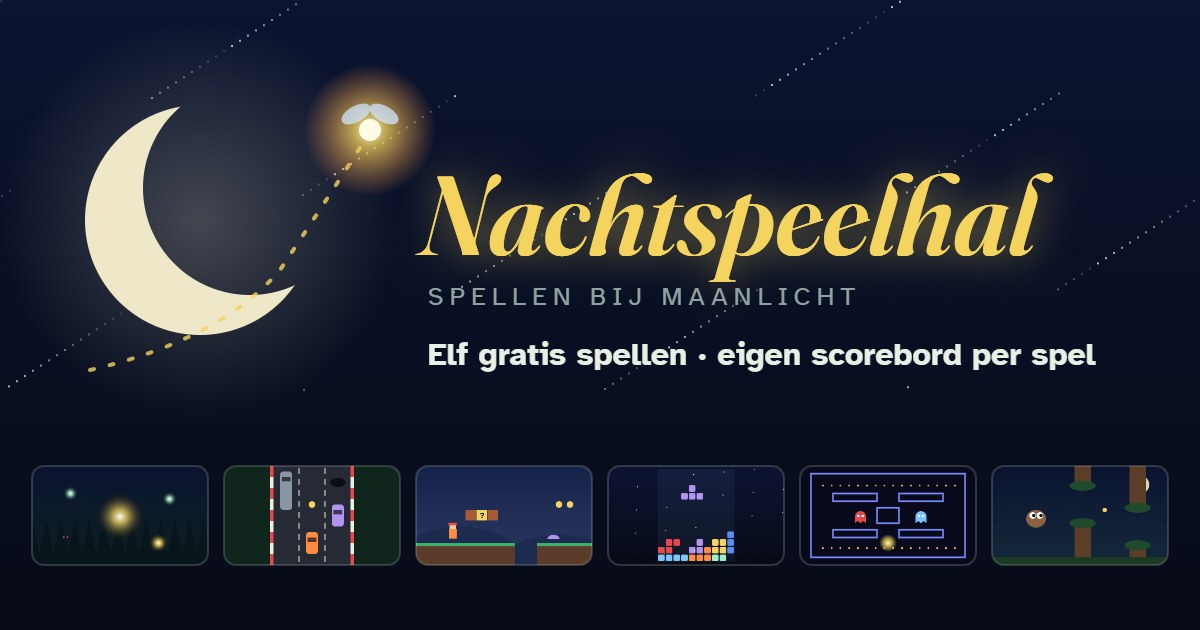
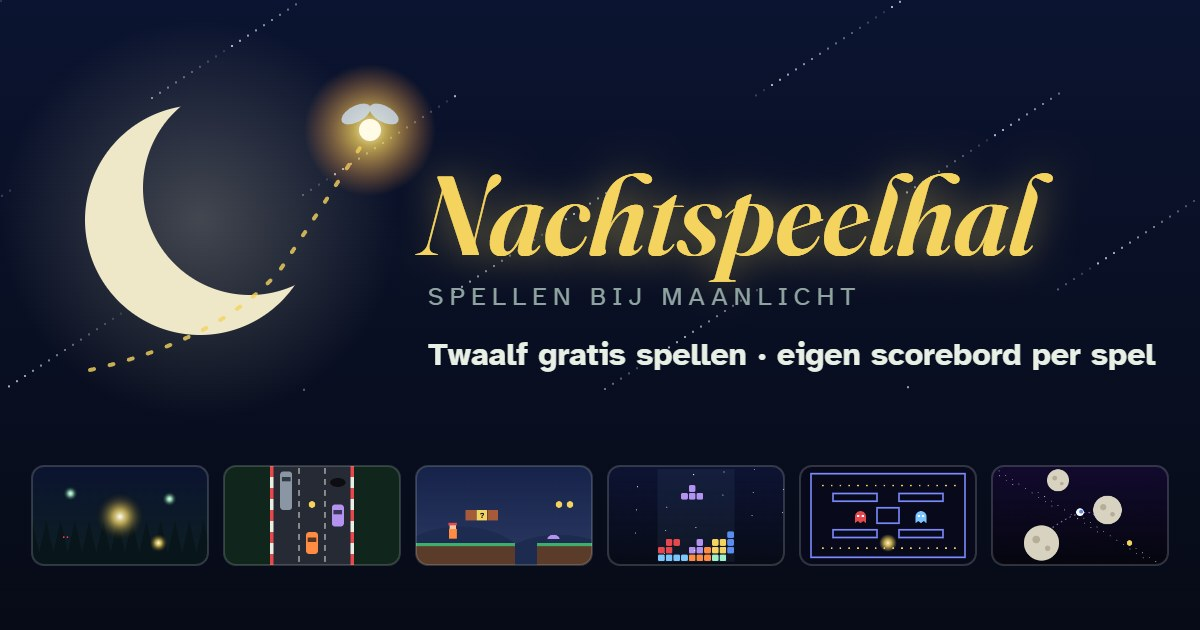
Twaalfde spel: Maansprong
Spring van maan naar maan; de zwaartekracht van de manen buigt de sprong af. Levels met sneller draaiende en kleinere manen, meteorieten, bewegende manen en zwarte gaten. Teksten, deelafbeelding, verkooppagina en statistieken bijgewerkt naar twaalf spellen.

Changed region(s): [[0.3392, 0.5429, 0.9867, 0.6032], [0.8017, 0.7238, 0.9867, 0.9048]]

diff --git a/games/maansprong.js b/games/maansprong.js
@@ -1,0 +1,213 @@
+GAMES.push({
+  id: 'maansprong',
+  name: 'Maansprong',
+  color: '#c9b8ff',
+  music: { bpm: 80, root: 59, scale: 'minor', prog: [0, 5, 3, 6], pad: 'sine', lead: 'sine', every: 2, pat: [0, 2, 4, 2, 1, 2], cut: 2200 },
+  blurb: 'Spring van maan naar maan door de ruimte. De zwaartekracht van de manen buigt je sprong af.',
+  how: [
+    'Tik, klik of druk op spatie om te springen: je vliegt recht van de maan af',
+    'Andere manen trekken je met hun zwaartekracht naar zich toe. Mis je, dan zweef je weg',
+    'Pak sterren onderweg voor extra punten',
+    'Elke 8 manen een level: sneller draaiende en kleinere manen, vanaf level 4 meteorieten, level 6 bewegende manen, level 8 zwarte gaten'
+  ],
+  touch: null,
+
+  thumb(c, w, h) {
+    const g = c.createLinearGradient(0, 0, 0, h);
+    g.addColorStop(0, '#120a2e'); g.addColorStop(1, '#05060f');
+    c.fillStyle = g; c.fillRect(0, 0, w, h);
+    c.fillStyle = 'rgba(230,240,255,.7)'; for (let i = 0; i < 40; i++) c.fillRect((i * 83) % w, (i * 47) % h, 1.5, 1.5);
+    const moon = (x, y, r) => { c.fillStyle = '#d8d2c0'; c.beginPath(); c.arc(x, y, r, 0, 7); c.fill(); c.fillStyle = '#b5ad98'; c.beginPath(); c.arc(x - r * .3, y - r * .2, r * .22, 0, 7); c.arc(x + r * .35, y + r * .3, r * .16, 0, 7); c.fill(); };
+    moon(90, 140, 32); moon(210, 80, 26); moon(120, 26, 20);
+    c.strokeStyle = 'rgba(201,184,255,.6)'; c.setLineDash([3, 6]); c.lineWidth = 2; c.beginPath(); c.moveTo(110, 112); c.quadraticCurveTo(170, 70, 190, 92); c.stroke(); c.setLineDash([]);
+    c.fillStyle = '#ffffff'; c.beginPath(); c.arc(160, 84, 7, 0, 7); c.fill();
+    c.fillStyle = '#5b8def'; c.beginPath(); c.arc(162, 83, 3.5, 0, 7); c.fill();
+    c.fillStyle = '#f4d35e'; c.beginPath(); c.arc(250, 140, 5, 0, 7); c.fill();
+  },
+
+  create(A) {
+    const ctx = A.ctx, rand = A.rand, PR = 9, JUMP = 470, K = 1400;
+    const NEWS = { 2: 'De manen draaien sneller', 3: 'Kleinere manen', 4: 'Pas op voor meteorieten', 6: 'Bewegende manen', 8: 'Zwarte gaten trekken je naar binnen' };
+    let W = 0, H = 0, PW = 0, ox = 0;
+    let moons = [], stars = [], rocks = [], holes = [], parts = [], bg = [];
+    let camY = 0, camTarget = 0, level = 1, reached = 0, score = 0, starsGot = 0, t = 0, rockT = 3;
+    let dead = false, deadT = 0, ended = false, nextIdx = 0;
+    const p = { x: 0, y: 0, vx: 0, vy: 0, on: null, ang: -Math.PI / 2, left: null, trail: [] };
+
+    const lvAt = n => 1 + Math.floor(n / 8);
+    function layout() {
+      W = A.W; H = A.H; PW = Math.min(W, 560); ox = (W - PW) / 2;
+      bg = Array.from({ length: 120 }, (_, i) => ({ x: (i * 197) % Math.max(1, W), y: (i * 131) % Math.max(1, H), s: .2 + (i % 5) * .15, b: .3 + (i % 7) / 10 }));
+      for (const m of moons) { m.x = Math.min(Math.max(m.x, m.r + 16), PW - m.r - 16); m.baseX = m.x; }
+    }
+    function addMoon() {
+      const prev = moons[moons.length - 1];
+      const idx = nextIdx++, lv = lvAt(idx);
+      const r = Math.max(20, rand(30, 46) - (lv >= 3 ? Math.min(14, (lv - 2) * 3) : 0));
+      const y = prev ? prev.y - rand(160, 230) - Math.min(40, lv * 4) : 0;
+      let x = prev ? rand(r + 20, PW - r - 20) : PW / 2;
+      if (prev && Math.abs(x - prev.x) < 50) x = Math.min(PW - r - 20, Math.max(r + 20, x + (x < PW / 2 ? 90 : -90)));
+      const w = prev ? (rand(.7, 1.3) + (lv - 1) * .15) * (Math.random() < .5 ? -1 : 1) : .8;
+      const m = { idx, x, baseX: x, y, r, w, a: rand(0, 6), moving: lv >= 6 && prev && Math.random() < .4, amp: rand(30, 70), ph: rand(0, 6), craters: [[.3, -.2, .22], [-.35, .3, .16], [.1, .45, .12], [-.2, -.45, .1]] };
+      moons.push(m);
+      if (prev && Math.random() < .55) stars.push({ x: (x + prev.x) / 2 + rand(-40, 40), y: (y + prev.y) / 2 + rand(-20, 20), got: false, ph: rand(0, 6) });
+      if (prev && lv >= 8 && Math.random() < .18) holes.push({ x: rand(30, PW - 30), y: (y + prev.y) / 2, r: 14 });
+    }
+    layout();
+    for (let i = 0; i < 8; i++) addMoon();
+    p.on = moons[0];
+    camY = camTarget = moons[0].y - H * .68;
+
+    function burst(x, y, color, n = 14) {
+      if (A.reduce) n = 5;
+      for (let i = 0; i < n; i++) { const a = rand(0, 7), s = rand(40, 200); parts.push({ x, y, vx: Math.cos(a) * s, vy: Math.sin(a) * s, life: rand(.3, .8), age: 0, color }); }
+    }
+    function die() {
+      if (dead) return;
+      dead = true; deadT = 0;
+      A.vibrate(200); A.sound(180, .7, 'sawtooth', .07, -120);
+      burst(p.x, p.y, '#c9b8ff', 20);
+    }
+    function moonX(m) { return m.moving ? m.baseX + Math.sin(t * .8 + m.ph) * m.amp : m.baseX; }
+
+    function update(dt) {
+      t += dt;
+      for (let i = parts.length - 1; i >= 0; i--) { const q = parts[i]; q.age += dt; if (q.age > q.life) { parts.splice(i, 1); continue; } q.x += q.vx * dt; q.y += q.vy * dt; }
+      for (const m of moons) { m.a += m.w * dt; m.x = Math.min(Math.max(moonX(m), m.r + 10), PW - m.r - 10); }
+      camY += (camTarget - camY) * Math.min(1, dt * 4);
+      if (dead) { deadT += dt; if (deadT > 1.1 && !ended) { ended = true; A.score(score); A.end(); } return; }
+
+      if (p.on) {
+        const m = p.on;
+        p.ang += m.w * dt;
+        p.x = m.x + Math.cos(p.ang) * (m.r + PR); p.y = m.y + Math.sin(p.ang) * (m.r + PR);
+        if (A.hit(' ', 'tap', 'arrowup', 'w', 'enter')) {
+          const nx = Math.cos(p.ang), ny = Math.sin(p.ang), tx = -ny, ty = nx, tv = m.w * (m.r + PR) * .5;
+          p.vx = nx * JUMP + tx * tv; p.vy = ny * JUMP + ty * tv;
+          p.left = m; p.on = null; p.trail = [];
+          A.sound(500, .12, 'triangle', .06, 300);
+        }
+      } else {
+        let ax = 0, ay = 0;
+        for (const m of moons) {
+          if (m === p.left) continue;
+          const dx = m.x - p.x, dy = m.y - p.y, d2 = dx * dx + dy * dy, d = Math.sqrt(d2);
+          if (d > m.r * 6) continue;
+          const a = Math.min(1600, K * m.r * m.r / Math.max(d2, m.r * m.r));
+          ax += dx / d * a; ay += dy / d * a;
+        }
+        for (const hl of holes) {
+          const dx = hl.x - p.x, dy = hl.y - p.y, d = Math.hypot(dx, dy);
+          if (d < hl.r + PR) { die(); return; }
+          if (d < 220) { const a = Math.min(2600, 2600 * 900 / Math.max(d * d, 400)); ax += dx / d * a; ay += dy / d * a; }
+        }
+        p.vx += ax * dt; p.vy += ay * dt;
+        const sp = Math.hypot(p.vx, p.vy); if (sp > 900) { p.vx *= 900 / sp; p.vy *= 900 / sp; }
+        p.x += p.vx * dt; p.y += p.vy * dt;
+        p.trail.push({ x: p.x, y: p.y }); if (p.trail.length > 30) p.trail.shift();
+        for (const m of moons) {
+          if (m === p.left) continue;
+          if (Math.hypot(m.x - p.x, m.y - p.y) <= m.r + PR) {
+            p.on = m; p.left = null; p.ang = Math.atan2(p.y - m.y, p.x - m.x);
+            camTarget = m.y - H * .68;
+            if (m.idx > reached) {
+              const gain = m.idx - reached; reached = m.idx;
+              score += 10 * gain * level;
+              A.sound(660, .15, 'triangle', .07, 200);
+              burst(p.x, p.y, '#ffffff', 8);
+              const nl = lvAt(reached);
+              if (nl > level) { level = nl; A.level(level, NEWS[level] || 'Alles gaat sneller'); }
+            } else A.sound(330, .08, 'sine', .05);
+            break;
+          }
+        }
+        if (!p.on && (p.y > camY + H + 60 || p.y < camY - H * .9 || p.x < -90 || p.x > PW + 90)) die();
+      }
+
+      for (const s of stars) {
+        if (!s.got && Math.hypot(s.x - p.x, s.y - p.y) < PR + 12) { s.got = true; starsGot++; score += 25 * level; A.sound(990, .1, 'square', .05); burst(s.x, s.y, '#f4d35e', 10); }
+      }
+      if (level >= 4) {
+        rockT -= dt;
+        if (rockT <= 0) {
+          const left = Math.random() < .5;
+          rocks.push({ x: left ? -30 : PW + 30, y: camY + rand(H * .1, H * .7), vx: (left ? 1 : -1) * rand(110, 170 + level * 8), vy: rand(-30, 30), r: rand(8, 13), spin: rand(0, 6) });
+          rockT = Math.max(1.2, 4 - (level - 4) * .3) * rand(.7, 1.3);
+        }
+      }
+      for (let i = rocks.length - 1; i >= 0; i--) {
+        const r = rocks[i]; r.x += r.vx * dt; r.y += r.vy * dt; r.spin += dt * 3;
+        if (r.x < -60 || r.x > PW + 60) { rocks.splice(i, 1); continue; }
+        if (Math.hypot(r.x - p.x, r.y - p.y) < r.r + PR - 2) { die(); return; }
+      }
+      while (moons[moons.length - 1].y > camY - H) addMoon();
+      moons = moons.filter(m => m === p.on || m === p.left || m.y < camY + H + 300);
+      stars = stars.filter(s => s.y < camY + H + 200);
+      holes = holes.filter(hl => hl.y < camY + H + 200);
+      A.score(score);
+      A.info('Manen ' + reached + (starsGot ? ' \u00b7 sterren ' + starsGot : ''));
+    }
+
+    function draw() {
+      const g = ctx.createLinearGradient(0, 0, 0, H);
+      g.addColorStop(0, '#120a2e'); g.addColorStop(1, '#05060f');
+      ctx.fillStyle = g; ctx.fillRect(0, 0, W, H);
+      for (const s of bg) {
+        const y = ((s.y - camY * s.s * .3) % H + H) % H;
+        ctx.fillStyle = `rgba(230,240,255,${s.b})`; ctx.fillRect(s.x, y, 1.6, 1.6);
+      }
+      ctx.save(); ctx.translate(ox, -camY);
+      if (ox > 0) { ctx.strokeStyle = 'rgba(201,184,255,.08)'; ctx.strokeRect(0, camY, PW, H); }
+      for (const hl of holes) {
+        const hg = ctx.createRadialGradient(hl.x, hl.y, 0, hl.x, hl.y, 70);
+        hg.addColorStop(0, 'rgba(0,0,0,1)'); hg.addColorStop(.25, 'rgba(60,20,90,.8)'); hg.addColorStop(1, 'rgba(60,20,90,0)');
+        ctx.fillStyle = hg; ctx.beginPath(); ctx.arc(hl.x, hl.y, 70, 0, 7); ctx.fill();
+        ctx.strokeStyle = 'rgba(201,184,255,.6)'; ctx.lineWidth = 1.5; ctx.beginPath(); ctx.arc(hl.x, hl.y, hl.r + 6 + Math.sin(t * 5) * 2, 0, 7); ctx.stroke();
+      }
+      for (const m of moons) {
+        const mg = ctx.createRadialGradient(m.x, m.y, m.r * .8, m.x, m.y, m.r * 1.8);
+        mg.addColorStop(0, 'rgba(201,184,255,.18)'); mg.addColorStop(1, 'rgba(201,184,255,0)');
+        ctx.fillStyle = mg; ctx.beginPath(); ctx.arc(m.x, m.y, m.r * 1.8, 0, 7); ctx.fill();
+        ctx.fillStyle = m.idx > reached ? '#d8d2c0' : '#a9a392'; ctx.beginPath(); ctx.arc(m.x, m.y, m.r, 0, 7); ctx.fill();
+        ctx.fillStyle = m.idx > reached ? '#b5ad98' : '#8c8778';
+        for (const [cx, cy, cr] of m.craters) {
+          const ca = Math.atan2(cy, cx) + m.a, cd = Math.hypot(cx, cy) * m.r;
+          ctx.beginPath(); ctx.arc(m.x + Math.cos(ca) * cd, m.y + Math.sin(ca) * cd, cr * m.r, 0, 7); ctx.fill();
+        }
+      }
+      for (const s of stars) {
+        if (s.got) continue;
+        const sr = 7 + Math.sin(t * 4 + s.ph) * 1.5;
+        ctx.fillStyle = '#f4d35e'; ctx.beginPath();
+        for (let k = 0; k < 10; k++) { const a = -Math.PI / 2 + k * Math.PI / 5, rr = k % 2 ? sr * .45 : sr; ctx.lineTo(s.x + Math.cos(a) * rr, s.y + Math.sin(a) * rr); }
+        ctx.closePath(); ctx.fill();
+      }
+      for (const r of rocks) {
+        ctx.save(); ctx.translate(r.x, r.y); ctx.rotate(r.spin);
+        ctx.fillStyle = '#7a5b46'; ctx.beginPath();
+        for (let k = 0; k < 7; k++) { const a = k / 7 * Math.PI * 2, rr = r.r * (.75 + ((k * 37) % 5) / 10); ctx.lineTo(Math.cos(a) * rr, Math.sin(a) * rr); }
+        ctx.closePath(); ctx.fill(); ctx.restore();
+        ctx.strokeStyle = 'rgba(255,140,66,.45)'; ctx.lineWidth = 2; ctx.beginPath(); ctx.moveTo(r.x, r.y); ctx.lineTo(r.x - r.vx * .15, r.y - r.vy * .15); ctx.stroke();
+      }
+      if (!dead) {
+        if (p.on && level < 6) {
+          ctx.strokeStyle = 'rgba(201,184,255,.35)'; ctx.setLineDash([3, 7]); ctx.lineWidth = 2;
+          ctx.beginPath(); ctx.moveTo(p.x, p.y); ctx.lineTo(p.x + Math.cos(p.ang) * 70, p.y + Math.sin(p.ang) * 70); ctx.stroke(); ctx.setLineDash([]);
+        }
+        p.trail.forEach((q, i) => { ctx.fillStyle = `rgba(201,184,255,${i / p.trail.length * .4})`; ctx.beginPath(); ctx.arc(q.x, q.y, 2, 0, 7); ctx.fill(); });
+        const rot = p.on ? p.ang + Math.PI / 2 : Math.atan2(p.vy, p.vx) + Math.PI / 2;
+        ctx.save(); ctx.translate(p.x, p.y); ctx.rotate(rot);
+        ctx.fillStyle = '#9aa4b8'; ctx.fillRect(-7, -2, 4, 9);
+        ctx.fillStyle = '#ffffff'; ctx.beginPath(); ctx.arc(0, 0, PR, 0, 7); ctx.fill();
+        ctx.fillStyle = '#5b8def'; ctx.beginPath(); ctx.ellipse(1, -2, 5, 3.6, 0, 0, 7); ctx.fill();
+        ctx.fillStyle = 'rgba(255,255,255,.7)'; ctx.fillRect(2, -4, 2, 2);
+        ctx.restore();
+      }
+      for (const q of parts) { ctx.globalAlpha = 1 - q.age / q.life; ctx.fillStyle = q.color; ctx.fillRect(q.x - 2, q.y - 2, 4, 4); }
+      ctx.globalAlpha = 1;
+      ctx.restore();
+    }
+
+    return { update, draw, resize: layout, idle(dt) { t += dt; for (const m of moons) m.a += m.w * dt; if (p.on) { p.ang += p.on.w * dt; p.x = p.on.x + Math.cos(p.ang) * (p.on.r + PR); p.y = p.on.y + Math.sin(p.ang) * (p.on.r + PR); } } };
+  }
+});

diff --git a/index.html b/index.html
@@ -4,11 +4,11 @@
 <meta charset="utf-8">
 <meta name="viewport" content="width=device-width,initial-scale=1,viewport-fit=cover">
 <title>Nachtspeelhal</title>
-<meta name="description" content="Elf gratis arcadespellen bij maanlicht, elk met een eigen scorebord.">
+<meta name="description" content="Twaalf gratis arcadespellen bij maanlicht, elk met een eigen scorebord.">
 <meta name="theme-color" content="#070b17">
 <meta property="og:type" content="website">
 <meta property="og:title" content="Nachtspeelhal">
-<meta property="og:description" content="Elf gratis arcadespellen bij maanlicht, elk met een eigen scorebord.">
+<meta property="og:description" content="Twaalf gratis arcadespellen bij maanlicht, elk met een eigen scorebord.">
 <meta property="og:url" content="https://dokmannl.github.io/nachtspeelhal/">
 <meta property="og:image" content="https://dokmannl.github.io/nachtspeelhal/deel.jpg">
 <meta property="og:image:width" content="1200">
@@ -72,7 +72,7 @@ button:focus-visible, input:focus-visible, .card:focus-visible { outline: 2px so
 .w-hero { display: flex; flex-direction: column; align-items: center; gap: 18px; text-align: center; }
 .w-hero .logo { width: min(100%, 600px); margin: 0 auto; }
 .w-hero p { margin: 0; color: var(--muted); max-width: 50ch; line-height: 1.6; font-size: 1.1rem; }
-.strip { display: grid; grid-template-columns: repeat(11, minmax(0, 1fr)); gap: 8px; width: 100%; }
+.strip { display: grid; grid-template-columns: repeat(12, minmax(0, 1fr)); gap: 8px; width: 100%; }
 .strip canvas { width: 100%; aspect-ratio: 16 / 9; border-radius: 8px; border: 1px solid var(--line); display: block; }
 @media (max-width: 640px) { .strip { grid-template-columns: repeat(3, minmax(0, 1fr)); } }
 .sale { border: 1px solid var(--glow); border-radius: 16px; padding: 22px 24px; background: rgba(244, 211, 94, .05); display: flex; flex-direction: column; gap: 12px; }
@@ -210,14 +210,14 @@ footer { color: var(--muted); font-size: .85rem; line-height: 1.5; max-width: 70
 <main id="welkom">
   <section class="w-hero">
     <h1 style="margin:0;width:100%"><span class="logo-slot" data-size="big" role="img" aria-label="Nachtspeelhal"></span></h1>
-    <p>Elf arcadespellen bij maanlicht. Gratis, zonder reclame, met een eigen scorebord per spel. Speel met toetsenbord, muis of je vinger.</p>
+    <p>Twaalf arcadespellen bij maanlicht. Gratis, zonder reclame, met een eigen scorebord per spel. Speel met toetsenbord, muis of je vinger.</p>
     <button class="play-btn" id="toGames" type="button">Naar de spellen</button>
     <div class="strip" id="strip" aria-hidden="true"></div>
   </section>
 
   <section class="sale" aria-labelledby="saleTitle">
     <h2 class="display" id="saleTitle">Deze site is te koop</h2>
-    <p>Elf eigen spellen, scoreborden en statistieken, klaar om over te nemen. Bekijk precies wat je krijgt en doe een bod.</p>
+    <p>Twaalf eigen spellen, scoreborden en statistieken, klaar om over te nemen. Bekijk precies wat je krijgt en doe een bod.</p>
     <div><a class="play-btn" href="te-koop.html" style="display:inline-block;text-decoration:none">Bekijk wat je krijgt &rarr;</a></div>
   </section>
 
@@ -243,7 +243,7 @@ footer { color: var(--muted); font-size: .85rem; line-height: 1.5; max-width: 70
       <h1 style="margin:0" class="logo-small"><span class="logo-slot" data-size="small" role="img" aria-label="Nachtspeelhal"></span></h1>
       <button class="btn" id="toWelcome" type="button">Over deze site</button>
     </div>
-    <span class="eyebrow">Elf spellen · elk met een eigen scorebord</span>
+    <span class="eyebrow">Twaalf spellen · elk met een eigen scorebord</span>
     <p>Kies een spel, haal een zo hoog mogelijke score en zet je naam op het scorebord. Werkt met toetsenbord, muis of je vinger.</p>
   </section>
 
@@ -348,6 +348,7 @@ window.rrect = function (c, x, y, w, h, r) {
 <script src="games/lantaarnman.js"></script>
 <script src="games/uilenvlucht.js"></script>
 <script src="games/spokenjacht.js"></script>
+<script src="games/maansprong.js"></script>
 <script>
 (() => {
   const $ = id => document.getElementById(id);

diff --git a/te-koop.html b/te-koop.html
@@ -4,11 +4,11 @@
 <meta charset="utf-8">
 <meta name="viewport" content="width=device-width,initial-scale=1,viewport-fit=cover">
 <title>Nachtspeelhal te koop</title>
-<meta name="description" content="Nachtspeelhal is te koop: elf eigen browserspellen met levels, muziek, scoreborden, statistieken en een contactformulier, klaar om over te nemen. Doe een bod.">
+<meta name="description" content="Nachtspeelhal is te koop: twaalf eigen browserspellen met levels, muziek, scoreborden, statistieken en een contactformulier, klaar om over te nemen. Doe een bod.">
 <meta name="theme-color" content="#070b17">
 <meta property="og:type" content="website">
 <meta property="og:title" content="Nachtspeelhal is te koop">
-<meta property="og:description" content="Elf eigen browserspellen, scoreborden en statistieken, klaar om over te nemen. Doe een bod.">
+<meta property="og:description" content="Twaalf eigen browserspellen, scoreborden en statistieken, klaar om over te nemen. Doe een bod.">
 <meta property="og:url" content="https://dokmannl.github.io/nachtspeelhal/te-koop.html">
 <meta property="og:image" content="https://dokmannl.github.io/nachtspeelhal/deel.jpg">
 <meta property="og:locale" content="nl_NL">
@@ -96,17 +96,17 @@ footer { color: var(--muted); font-size: .85rem; text-align: center; }
     <div class="hero-text">
       <span class="small" style="letter-spacing:.14em;text-transform:uppercase">Te koop</span>
       <h1 class="display">Nachtspeelhal is te koop</h1>
-      <p class="lead">Een complete spellensite met elf eigen browserspellen, scoreborden, statistieken en een contactformulier. Alles werkt al en draait zonder maandelijkse kosten. Je kunt hem zo overnemen en verder laten groeien.</p>
+      <p class="lead">Een complete spellensite met twaalf eigen browserspellen, scoreborden, statistieken en een contactformulier. Alles werkt al en draait zonder maandelijkse kosten. Je kunt hem zo overnemen en verder laten groeien.</p>
       <div class="btns">
         <a class="btn-main" href="#bod">Doe een bod</a>
         <a class="btn-ghost" href="./">Probeer de site</a>
       </div>
-      <div class="facts"><span><b>11</b> spellen</span><span><b>Telefoon en computer</b></span><span><b>&euro; 0</b> per maand</span><span><b>Klaar</b> om over te nemen</span></div>
+      <div class="facts"><span><b>12</b> spellen</span><span><b>Telefoon en computer</b></span><span><b>&euro; 0</b> per maand</span><span><b>Klaar</b> om over te nemen</span></div>
     </div>
   </header>
 
   <section aria-labelledby="h-spellen">
-    <h2 class="display" id="h-spellen">Wat je krijgt: elf spellen</h2>
+    <h2 class="display" id="h-spellen">Wat je krijgt: twaalf spellen</h2>
     <p class="lead">Elk spel is zelf gemaakt, heeft eindeloze levels die steeds moeilijker worden, een eigen muziekje en een eigen scorebord.</p>
     <div class="games" id="games"></div>
   </section>
@@ -215,6 +215,7 @@ window.rrect = function (c, x, y, w, h, r) {
 <script src="games/lantaarnman.js"></script>
 <script src="games/uilenvlucht.js"></script>
 <script src="games/spokenjacht.js"></script>
+<script src="games/maansprong.js"></script>
 <script>
 (() => {
   const SUPA = { url: 'https://mcakdvonmliccvqtzsuw.supabase.co', key: 'sb_publishable_N10Mu-RjANOLzRHon0ZwrQ_WX-zdJGY' };

diff --git a/stats.html b/stats.html
@@ -141,7 +141,7 @@ th { color: var(--muted); font-weight: 400; font-size: .78rem; text-transform: u
 <script>
 (() => {
   const SUPA = { url: 'https://mcakdvonmliccvqtzsuw.supabase.co', key: 'sb_publishable_N10Mu-RjANOLzRHon0ZwrQ_WX-zdJGY' };
-  const NAMES = { vuurvlieg: 'Vuurvlieg', stuiterbal: 'Stuiterbal', racebaan: 'Racebaan', sprongheld: 'Sprongheld', slang: 'Slang', 'slang-rand': 'Slang (door de rand)', toren: 'Torenbouwer', sterrenblokken: 'Sterrenblokken', kikkersprong: 'Kikkersprong', lantaarnman: 'Lantaarnman', uilenvlucht: 'Uilenvlucht', spokenjacht: 'Spokenjacht' };
+  const NAMES = { vuurvlieg: 'Vuurvlieg', stuiterbal: 'Stuiterbal', racebaan: 'Racebaan', sprongheld: 'Sprongheld', slang: 'Slang', 'slang-rand': 'Slang (door de rand)', toren: 'Torenbouwer', sterrenblokken: 'Sterrenblokken', kikkersprong: 'Kikkersprong', lantaarnman: 'Lantaarnman', uilenvlucht: 'Uilenvlucht', spokenjacht: 'Spokenjacht', maansprong: 'Maansprong' };
   const LANGS = { nl: 'Nederlands', en: 'Engels', de: 'Duits', fr: 'Frans', es: 'Spaans', it: 'Italiaans', pt: 'Portugees', pl: 'Pools', tr: 'Turks', ar: 'Arabisch' };
   const SOURCES = { direct: 'Direct', 'gedeelde link': 'Gedeelde link', google: 'Google', whatsapp: 'WhatsApp', facebook: 'Facebook', anders: 'Andere site' };
   const DEVICES = { telefoon: 'Telefoon', computer: 'Computer' };

diff --git a/README.md b/README.md
@@ -1,10 +1,10 @@
 # Nachtspeelhal
 
-Elf arcadespellen bij maanlicht, elk met een eigen scorebord.
+Twaalf arcadespellen bij maanlicht, elk met een eigen scorebord.
 Speel op https://dokmannl.github.io/nachtspeelhal/
 
 Spellen: Vuurvlieg, Stuiterbal, Racebaan, Sprongheld, Slang, Torenbouwer,
-Sterrenblokken, Kikkersprong, Lantaarnman, Uilenvlucht en Spokenjacht.
+Sterrenblokken, Kikkersprong, Lantaarnman, Uilenvlucht, Spokenjacht en Maansprong.
 
 Alles draait in de browser: HTML, CSS en JavaScript zonder bibliotheken.
 De muziek wordt in de browser gemaakt met Web Audio.
